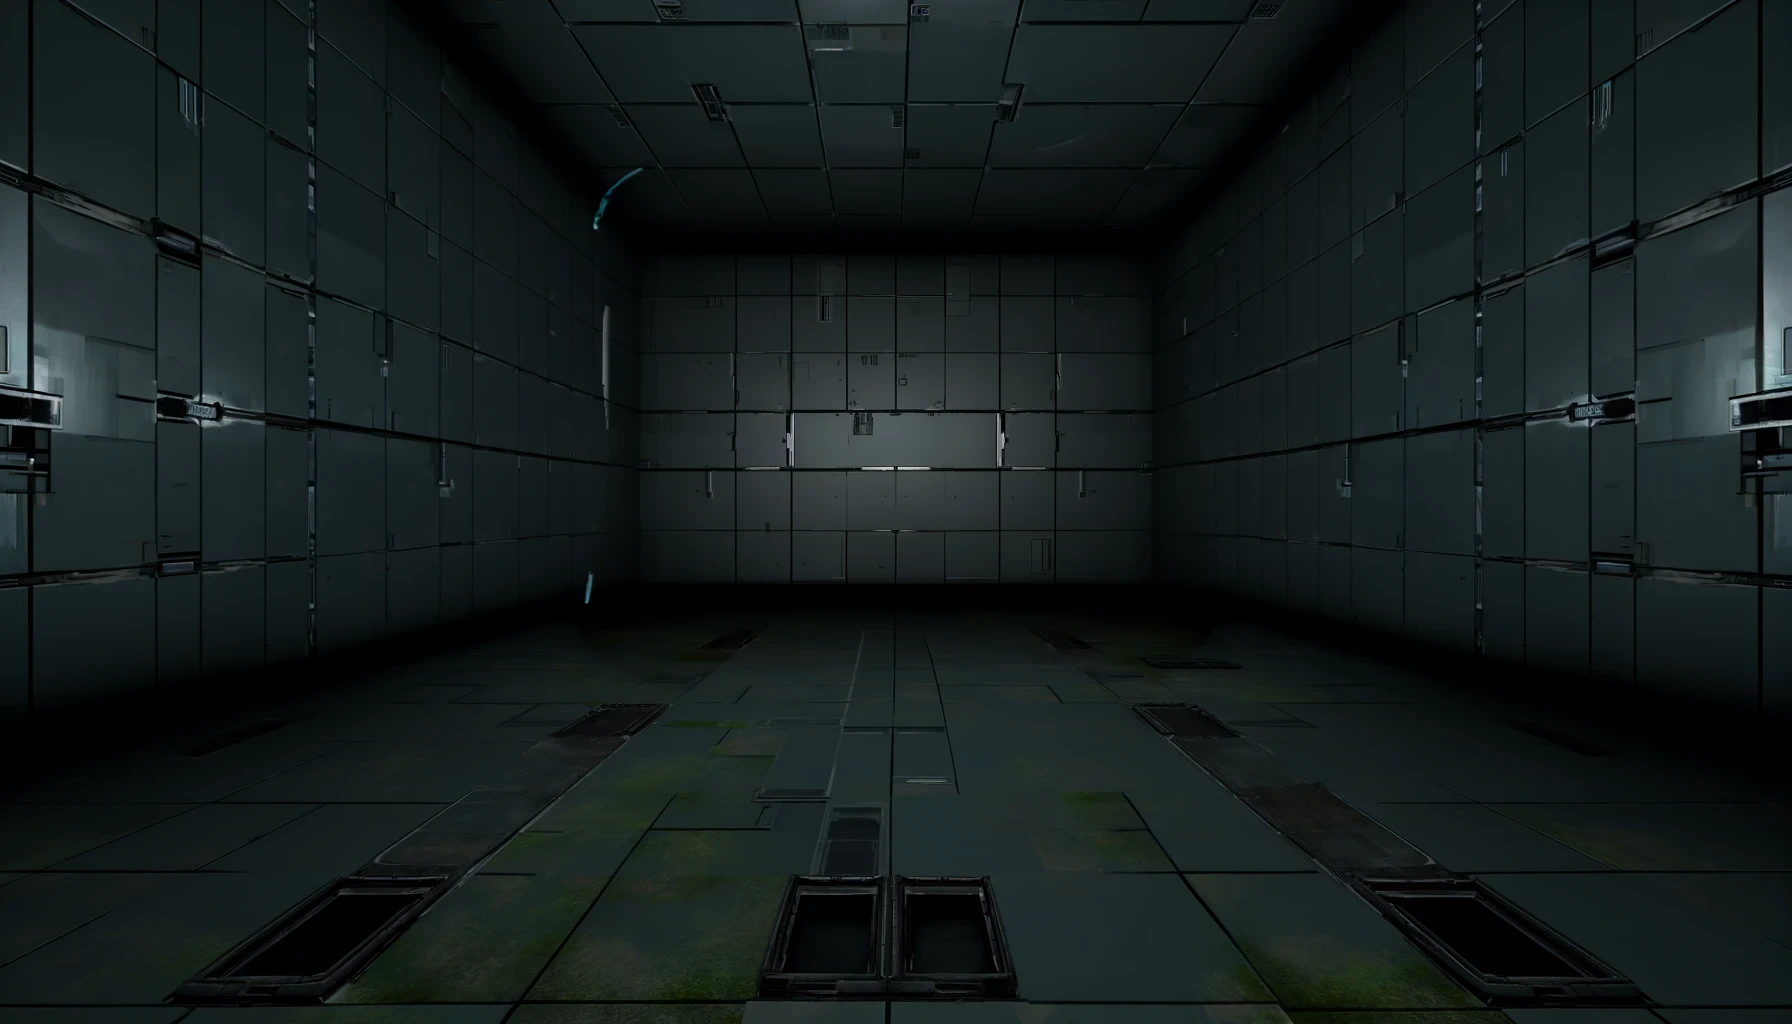
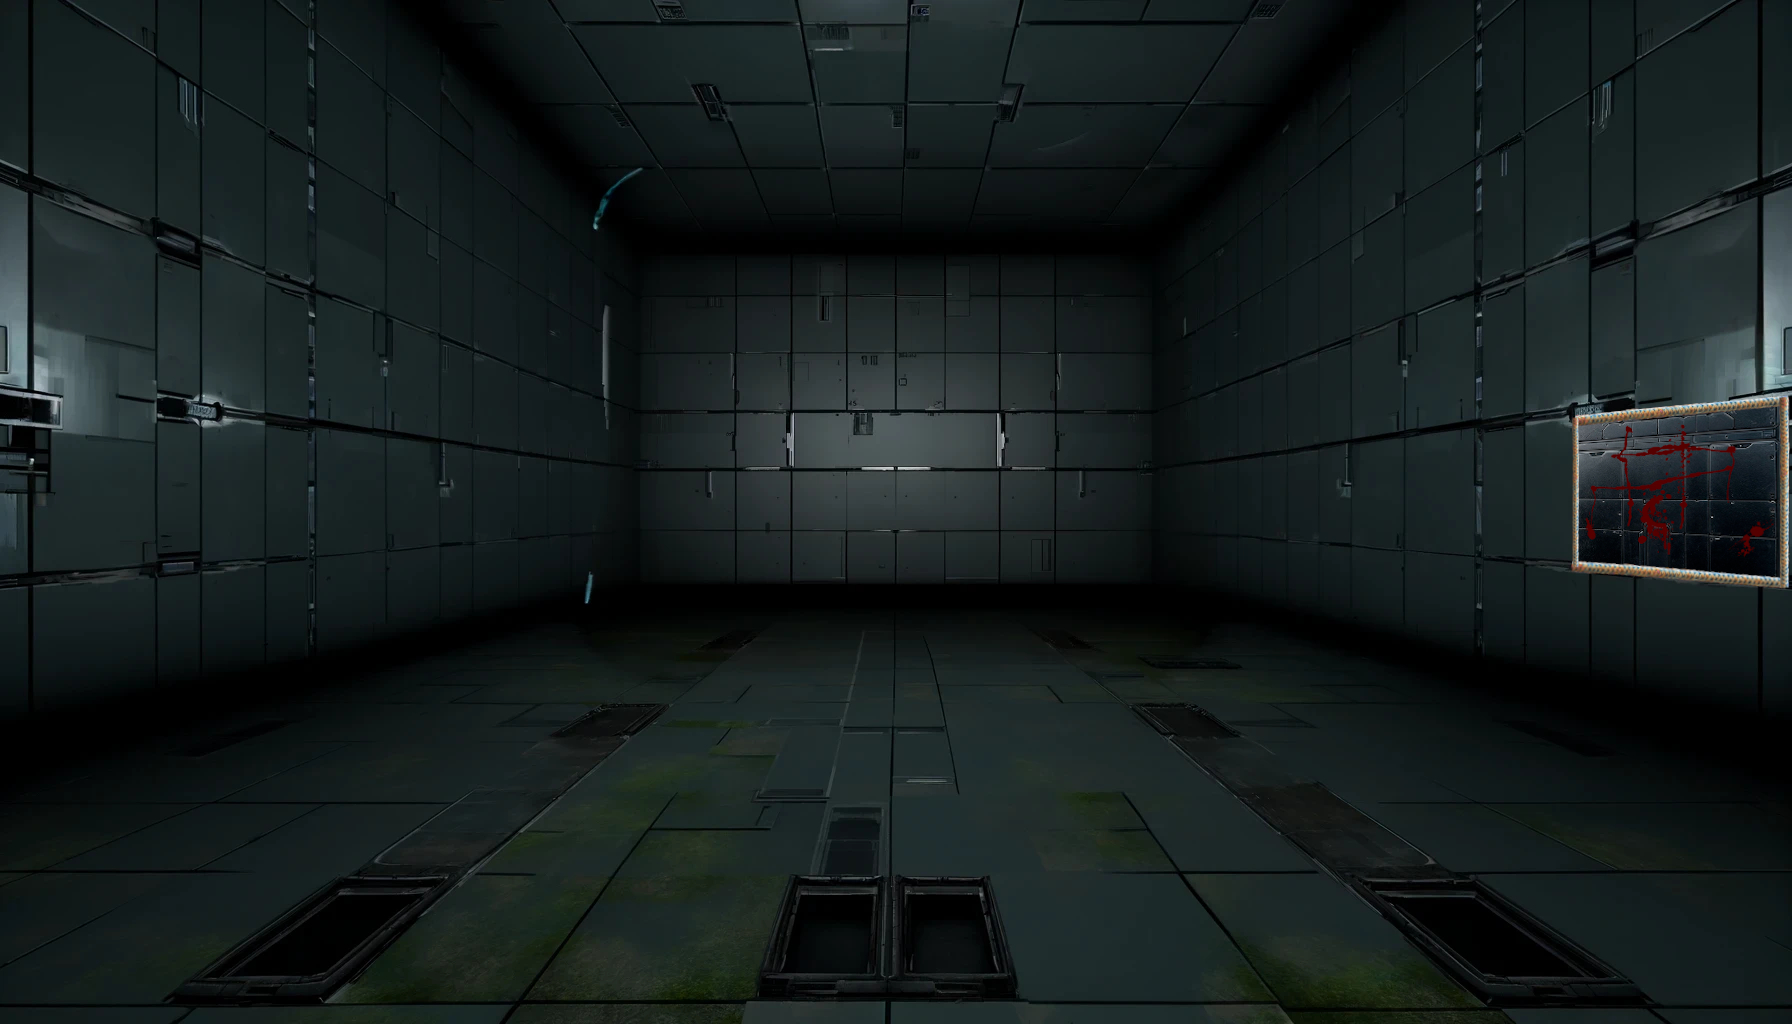
Version 0.7.2: -Puzzle dark room añadido (Faltan integraciones como las bolas o la luz apagada desde el principio) (Se puede encender toda la luz) -Cambiado fondo de corridor para mostrar la pista del puzzle soldada a la pared ??? -Puesto anti scroll en el ending -Movido el puzzle temporal de dark r

Changed region(s): [[0.875, 0.375, 1.0, 0.5938]]

diff --git a/js/darkRoom.js b/js/darkRoom.js
@@ -1,0 +1,49 @@
+let mouseX = 0;
+let mouseY = 0;
+
+let flashlight = document.getElementById("flashlight");
+const isTouchDevice = () => {
+  try {
+    document.createEvent("TouchEvent");
+    return true;
+  } catch (e) {
+    return false;
+  }
+};
+
+function getMousePosition(e) {
+  mouseX = !isTouchDevice() ? e.pageX : e.touches[0].pageX;
+  mouseY = !isTouchDevice() ? e.pageY : e.touches[0].pageY;
+
+  flashlight.style.setProperty("--Xpos", mouseX + "px");
+  flashlight.style.setProperty("--Ypos", mouseY + "px");
+}
+
+document.addEventListener("mousemove", getMousePosition);
+document.addEventListener("touchmove", getMousePosition);
+
+let keysPressed = {};
+
+// Función para manejar el evento keydown
+function handleKeyDown(event) {
+  // Agregamos la tecla presionada al objeto keysPressed
+  keysPressed[event.key] = true;
+
+  // Verificamos si se han presionado todas las teclas requeridas al mismo tiempo
+  if (keysPressed['u'] && keysPressed['v'] && keysPressed['q']) {
+    console.log("Luces encendidas");
+    document.getElementById("room4-background").style.cursor="auto";
+    flashlight.remove();
+    keysPressed = {};
+  }
+}
+
+// Función para manejar el evento keyup
+function handleKeyUp(event) {
+  // Eliminamos la tecla liberada del objeto keysPressed
+  delete keysPressed[event.key];
+}
+
+// Agregamos los event listeners
+document.addEventListener('keydown', handleKeyDown);
+document.addEventListener('keyup', handleKeyUp);

diff --git a/html/Room4.html b/html/Room4.html
@@ -5,16 +5,31 @@
     <meta name="viewport" content="width=device-width, initial-scale=1.0" />
     <link rel="stylesheet" href="../css/pilgrimage.css" />
     <link rel="stylesheet" href="../css/timer.css" />
-    <link rel="stylesheet" href="../css/estiloDani.css" />
+    <link rel="stylesheet" href="../css/darkRoom.css" />
+    <link rel="stylesheet" href="../css/hud.css" />
+    <link rel="stylesheet" href="../css/inventory.css" />
     <title>Room 4 (Darkness)</title>
   </head>
-  <body class="room4-background">
+  <body id="room4-background">
     <div id="flashlight"></div>
+
     <div class="timer"></div>
-    <div class="right-arrow-room" onclick="jumpToRoom(1)"></div>
+
+    <div id="dark-room-exit-button" onclick="jumpToRoom(1)"></div>
+
+    <div id="slide-blue-ball"></div>
+
+    <div id="slide-black-ball"></div>
+
+    <div id="dark-room-no-lantern"></div>
+
+    <div id="background-overlay"></div>
   </body>
   <script src="../js/timer.js"></script>
-  <script src="../js/scriptDani.js"></script>
+  <script src="../js/darkRoom.js"></script>
+  <script src="../js/modalOpener.js"></script>
+  <script src="../js/inventory.js"></script>
+  <script src="../js/hud.js"></script>
   <script>
     function jumpToRoom(i) {
       window.location.href = `Room${i}.html`;

diff --git a/css/darkRoom.css b/css/darkRoom.css
@@ -1,0 +1,42 @@
+#room4-background {
+  display: block;
+  cursor: none;
+  background-image: url(../resources/img/dark-room-background-chaos.jpg); /*Insertar aqui la imagen con los simbolos a buscar*/
+}
+#flashlight {
+  --Xpos: 50vw;
+  --Ypos: 50vh;
+}
+#flashlight:before {
+  content: "";
+  display: block;
+  width: 100%;
+  height: 100%;
+  position: absolute;
+  pointer-events: none;
+  background: radial-gradient(
+    circle 7em at var(--Xpos) var(--Ypos),
+    rgba(0, 0, 0, 0),
+    rgba(0, 0, 0, 1)
+  );
+}
+
+#dark-room-exit-button{
+  position: fixed;
+  /*border: 2px solid red;*/
+  width: 50px;
+  height: 50px;
+  border-radius: 50px;
+  top: 21vh;
+  left: 83.5vw;
+  z-index: 10;
+  opacity: 0;
+  transition: opacity 5s ease;
+  cursor: pointer;
+}
+
+#dark-room-exit-button:hover{
+  opacity: 1;
+}
+
+

diff --git a/bin/puzzleDani1.html b/bin/puzzleDani1.html
@@ -4,11 +4,11 @@
     <meta charset="UTF-8" />
     <meta name="viewport" content="width=device-width, initial-scale=1.0" />
     <title>Escape Room con Linterna</title>
-    <link rel="stylesheet" href="../css/estiloDani.css" />
+    <link rel="stylesheet" href="../css/darkRoom.css" />
   </head>
   <body>
     <div id="flashlight"></div>
 
-    <script src="../js/scriptDani.js"></script>
+    <script src="../js/darkRoom.js"></script>
   </body>
 </html>

diff --git a/html/Ending.html b/html/Ending.html
@@ -22,4 +22,12 @@
     <div id="final-div">YOU WIN</div>
 </body>
 <script src="../js/timer.js"></script>
+<script>
+    //El siguiente script hace que no puedas hacer zoom en la pagina
+    window.addEventListener("wheel", (e)=>{
+        if(e.ctrlKey){
+            e.preventDefault();
+        }
+    }, {passive:false});
+</script>
 </html>

diff --git a/index.html b/index.html
@@ -67,7 +67,7 @@
         </div>
         <div class="fullscreen-window-warning-body">
           <br />
-          Take a paper and and pen, or take out your phone or another device to
+          Take pen and paper, or take out your phone or another device to
           write down clues.
           <br />
           <br />
